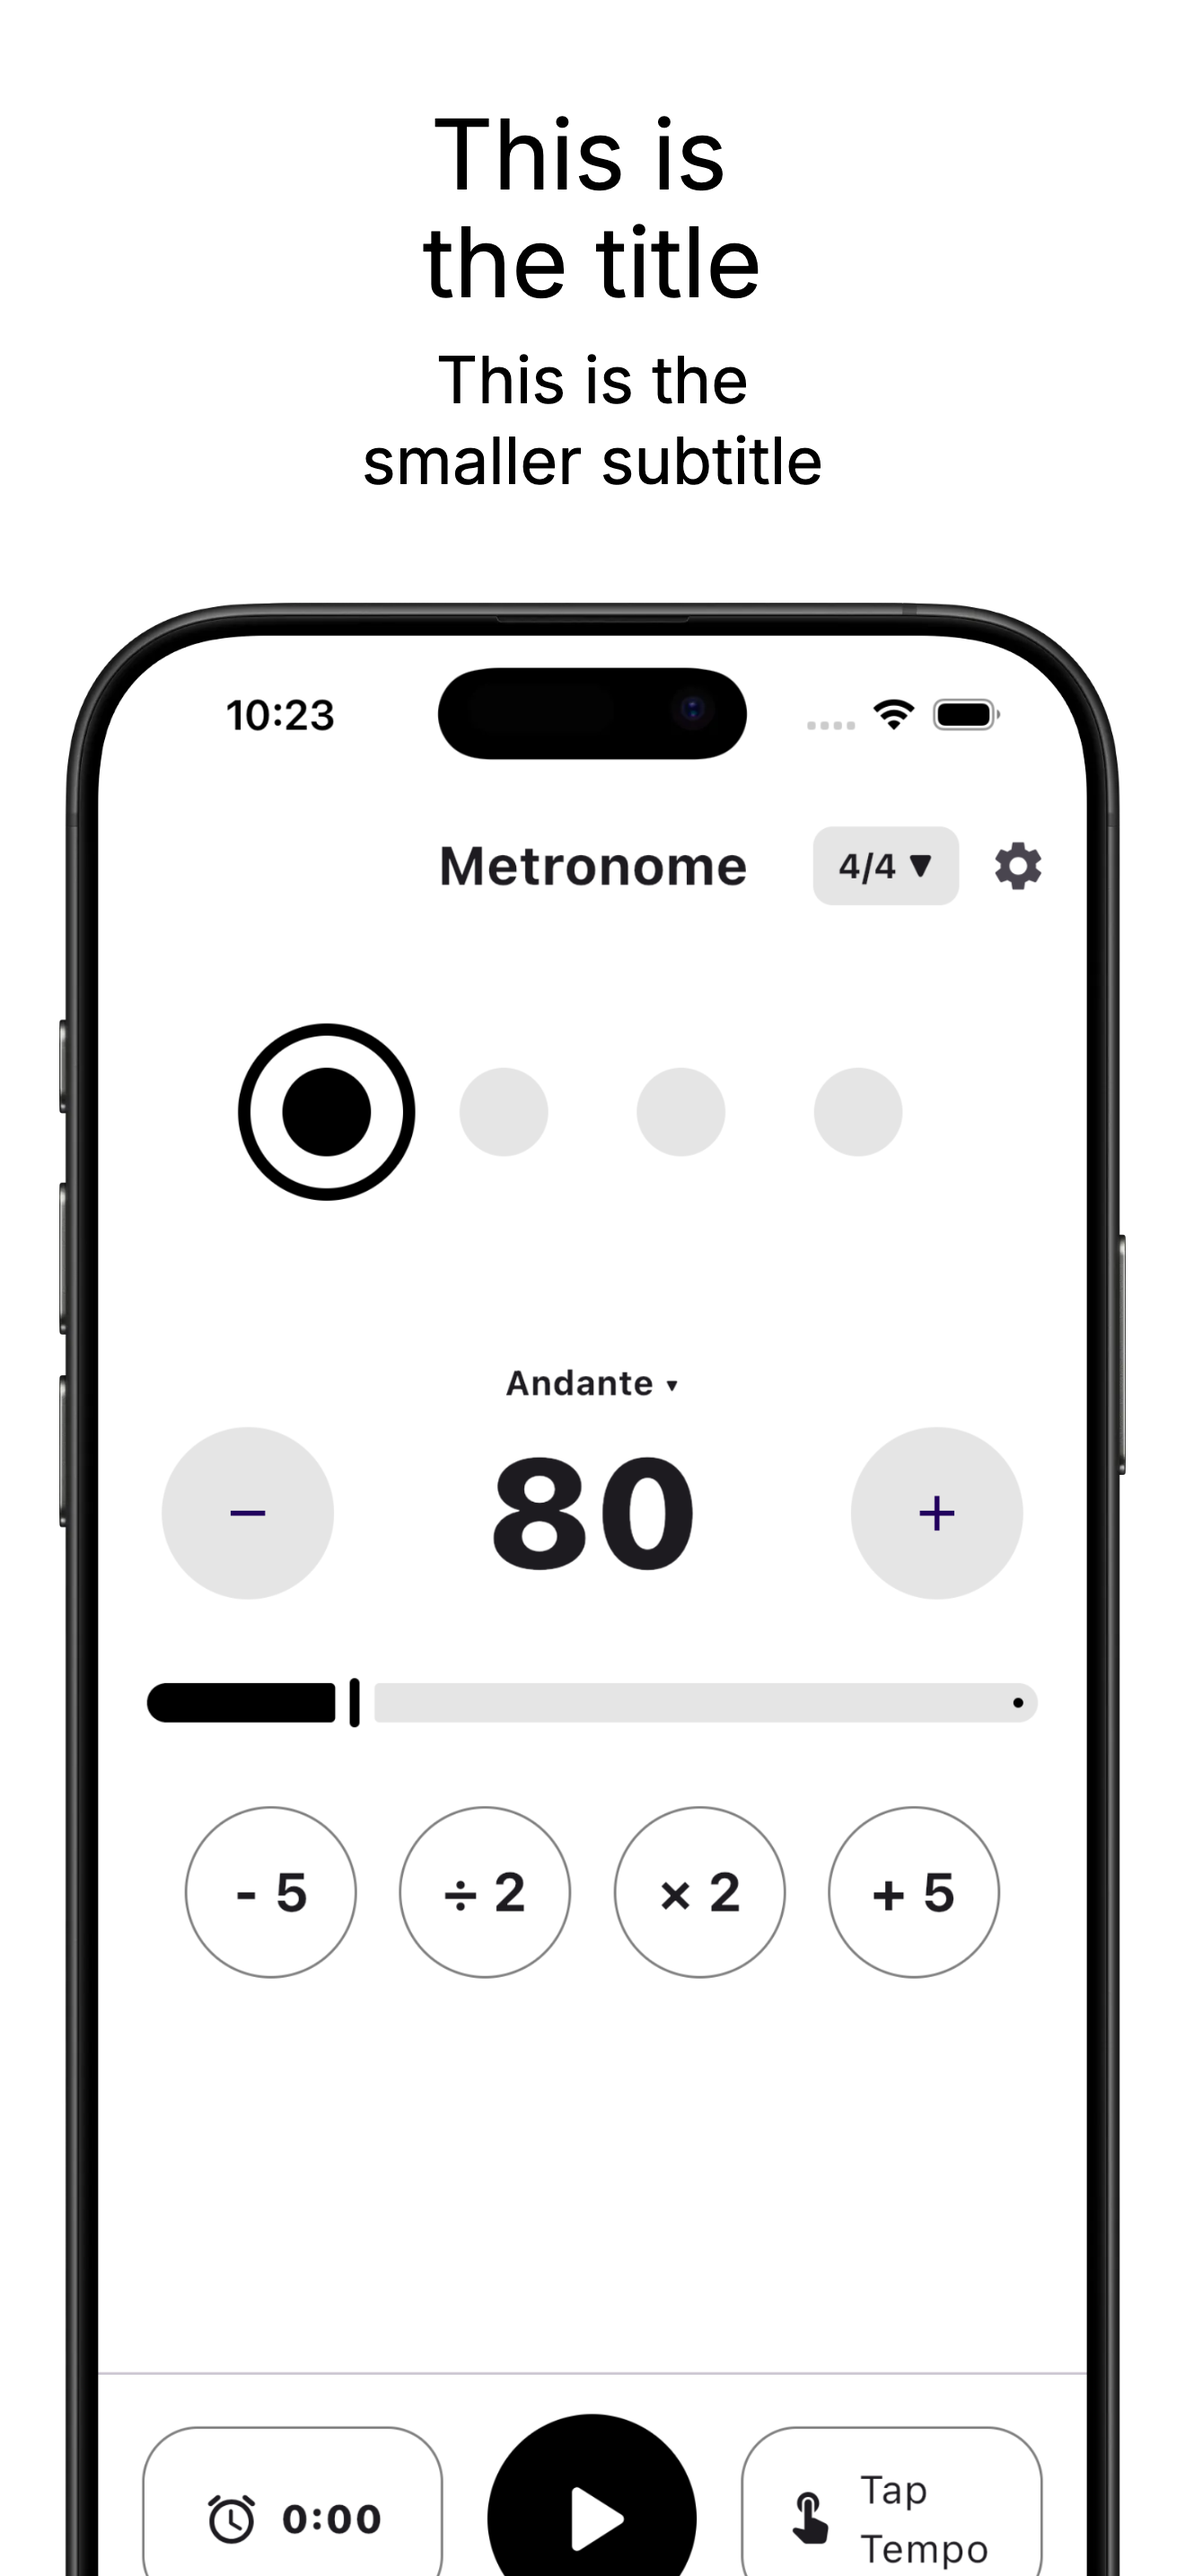
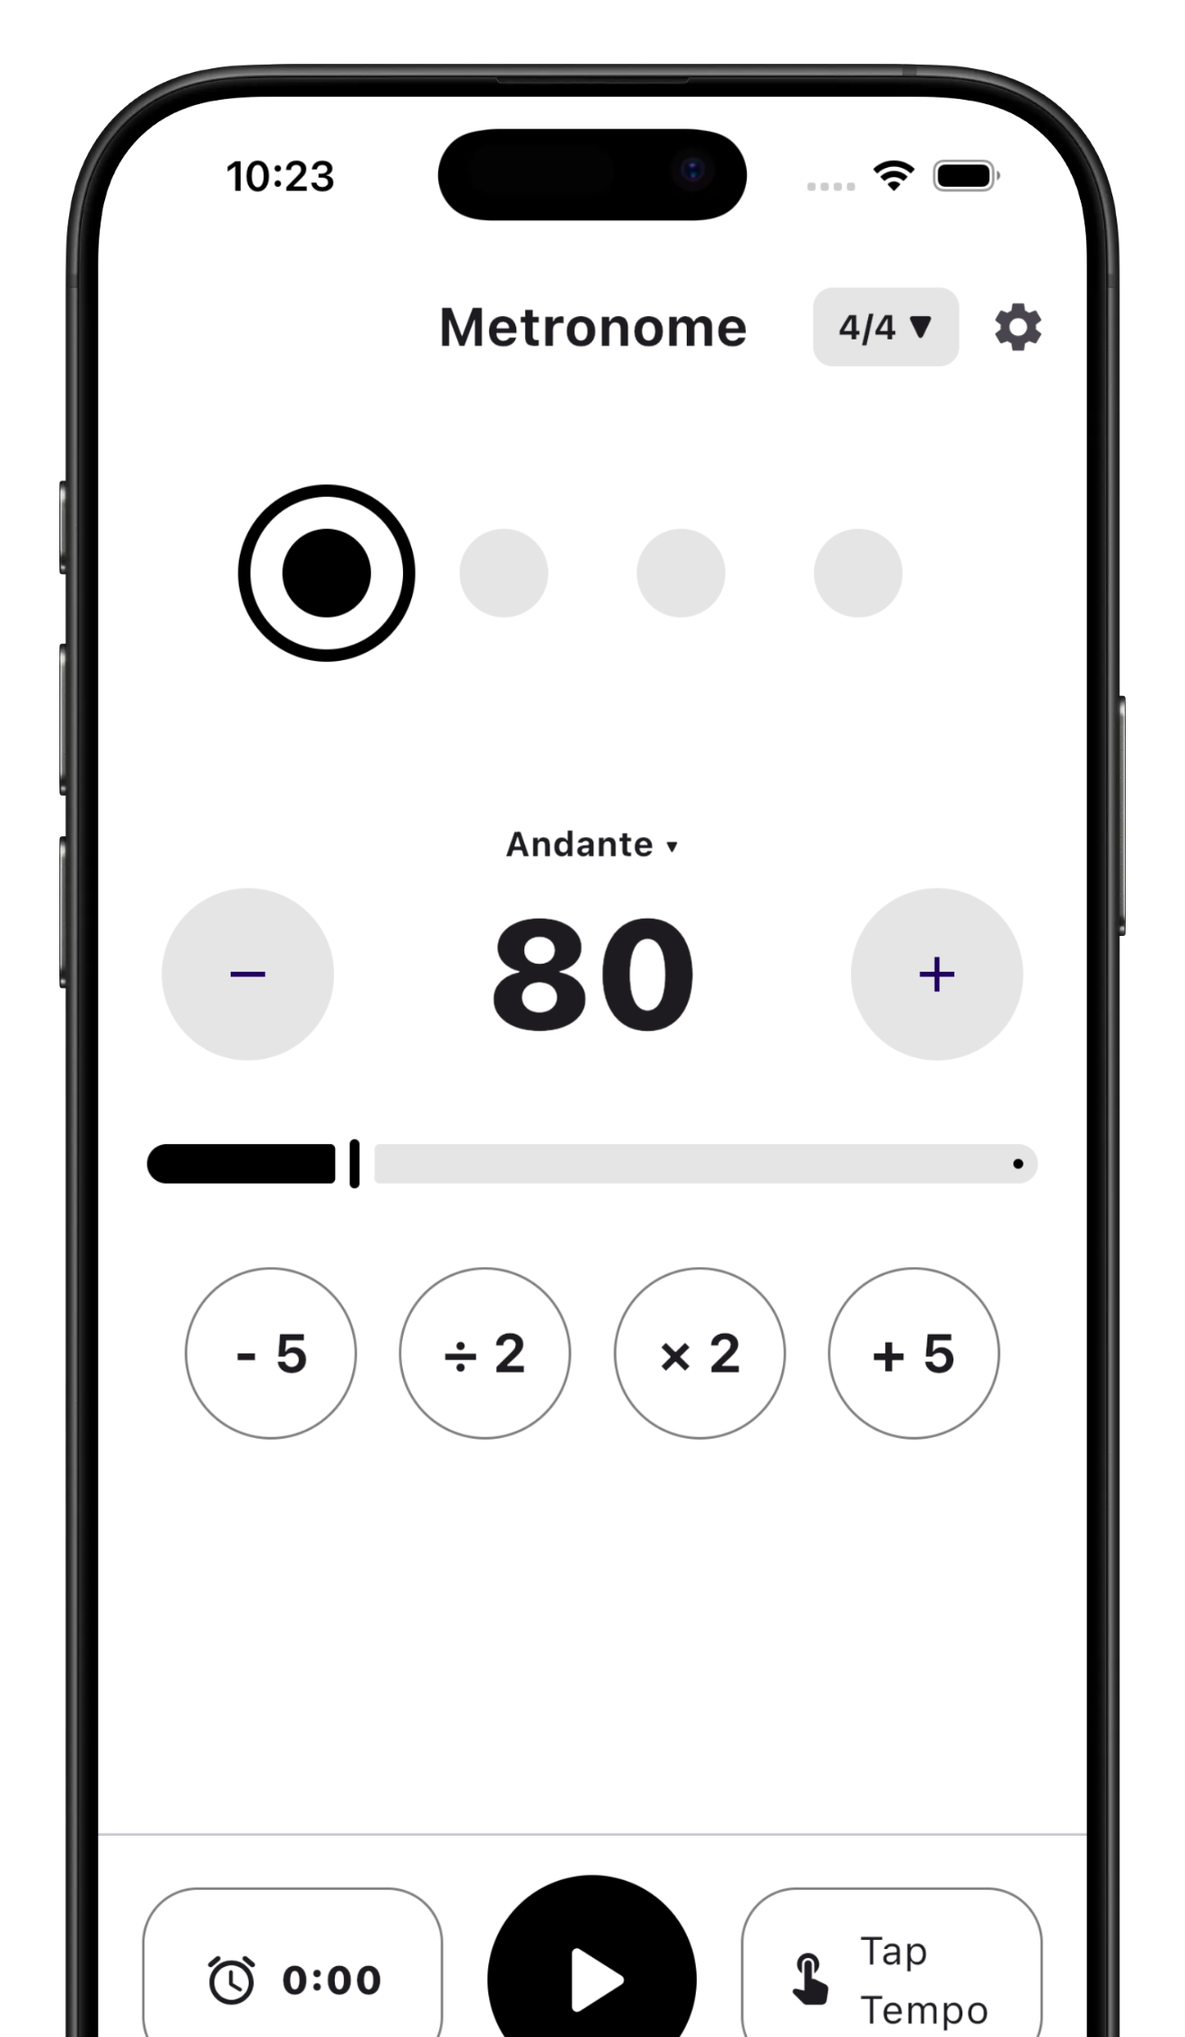
docs(site): correct the landing page and prepare it for merkost.dev
The live page linked App Store id6480380648; the app is id6761737690,
the ID the in-app rate action uses. The iOS download button has been
going to the wrong place.

Two of the three carousel screenshots were never finished: one was an
empty transparency checkerboard and both carried "This is the title /
This is the smaller subtitle" placeholder copy, live and public. Drop the
empty one and crop the placeholder band off the real screenshot.

The privacy policy claimed the app "works entirely offline" immediately
above a Firebase disclosure, and scoped that disclosure to Android.
Crashlytics is linked into the iOS app through the firebase-ios-sdk
package and CrashlyticsTree lives in commonMain, so it runs on both
platforms. Correct the scope per service and drop the contradiction.

Also: 1.3.0 feature list, ASO-approved title and H1, canonical URL,
Open Graph and Twitter cards, a 1200x630 social card, SoftwareApplication
structured data, a FAQ covering gap and gradual tempo training,
descriptive alt text, and a CNAME for metronome.merkost.dev.

Claude-Session: https://claude.ai/code/session_01SVidaaKXA3tkdeXYnArktn

diff --git a/docs/index.html b/docs/index.html
@@ -3,7 +3,43 @@
 <head>
     <meta charset="UTF-8">
     <meta name="viewport" content="width=device-width, initial-scale=1.0">
-    <title>Metronome: Feel the Beat!</title>
+    <title>Free Offline Metronome &amp; Practice Tools | Merkost</title>
+    <meta name="description" content="Practice with precise BPM control, practice presets and sets, tempo and gap trainers, subdivisions and timers. Free, ad-free metronome for iPhone and Android.">
+    <link rel="canonical" href="https://metronome.merkost.dev/">
+    <meta name="theme-color" content="#0a0a0a">
+
+    <meta property="og:type" content="website">
+    <meta property="og:site_name" content="Metronome: BPM &amp; Practice">
+    <meta property="og:title" content="Metronome: BPM &amp; Practice — precise timing, better practice">
+    <meta property="og:description" content="A precise, ad-free metronome with practice presets, practice sets, tempo and gap trainers. Free on iPhone and Android.">
+    <meta property="og:url" content="https://metronome.merkost.dev/">
+    <meta property="og:image" content="https://metronome.merkost.dev/screenshots/og-card.png">
+    <meta property="og:image:width" content="1200">
+    <meta property="og:image:height" content="630">
+
+    <meta name="twitter:card" content="summary_large_image">
+    <meta name="twitter:title" content="Metronome: BPM &amp; Practice — precise timing, better practice">
+    <meta name="twitter:description" content="A precise, ad-free metronome with practice presets, practice sets, tempo and gap trainers. Free on iPhone and Android.">
+    <meta name="twitter:image" content="https://metronome.merkost.dev/screenshots/og-card.png">
+
+    <script type="application/ld+json">
+    {
+      "@context": "https://schema.org",
+      "@type": "SoftwareApplication",
+      "name": "Metronome: BPM & Practice",
+      "operatingSystem": "iOS, Android",
+      "applicationCategory": "MusicApplication",
+      "softwareVersion": "1.3.0",
+      "description": "A precise, ad-free metronome with practice presets, practice sets, tempo and gap trainers, subdivisions and timers. Core practice features work offline.",
+      "url": "https://metronome.merkost.dev/",
+      "author": { "@type": "Person", "name": "Merkost", "url": "https://merkost.dev" },
+      "offers": { "@type": "Offer", "price": "0", "priceCurrency": "USD" },
+      "downloadUrl": [
+        "https://apps.apple.com/app/id6761737690",
+        "https://play.google.com/store/apps/details?id=com.merkost.metronome"
+      ]
+    }
+    </script>
     <style>
         * { margin: 0; padding: 0; box-sizing: border-box; }
         body {
@@ -93,6 +129,22 @@
         .carousel-btn.next { right: 8px; }
         .badges { display: flex; gap: 16px; flex-wrap: wrap; margin-bottom: 48px; }
         .badges a img { height: 52px; border-radius: 8px; }
+        .faq { margin-bottom: 48px; }
+        .faq h2 { font-size: 1.4rem; font-weight: 700; margin-bottom: 20px; }
+        .faq details {
+            border-bottom: 1px solid #1a1a1a;
+            padding: 14px 0;
+        }
+        .faq summary {
+            cursor: pointer;
+            font-size: 1.02rem;
+            font-weight: 600;
+            list-style: none;
+        }
+        .faq summary::-webkit-details-marker { display: none; }
+        .faq summary::after { content: '+'; float: right; color: #999; }
+        .faq details[open] summary::after { content: '\2212'; }
+        .faq details p { margin-top: 10px; color: #999; font-size: 0.95rem; }
         .links { margin-top: 32px; }
         .links a {
             color: #999;
@@ -112,52 +164,44 @@
 </head>
 <body>
     <div class="container">
-        <h1>Metronome: Feel the Beat!</h1>
-        <p class="subtitle">A simple, precise metronome for musicians of all levels.</p>
+        <h1>A precise metronome built for better practice</h1>
+        <p class="subtitle">Precise timing. Better practice. Free, ad-free, and no account required.</p>
 
         <ul class="features">
-            <li><span>&#9834;</span> Precise audio engine with low-latency playback</li>
-            <li><span>&#9996;</span> Tap tempo for quick BPM detection</li>
-            <li><span>&#8593;</span> Gradual tempo increase for practice sessions</li>
-            <li><span>&#9835;</span> Multiple time signatures</li>
-            <li><span>&#127925;</span> Selectable click sounds</li>
-            <li><span>&#9711;</span> Visual beat indicator with animated ball</li>
-            <li><span>&#9201;</span> Timer mode for timed practice</li>
-            <li><span>&#127912;</span> Light and dark themes with multiple color schemes</li>
-            <li><span>&#128243;</span> Haptic feedback on every beat</li>
-            <li><span>&#9654;</span> Keeps playing with screen off</li>
+            <li><span>&#9834;</span> Drift-resistant beat scheduling anchored to a monotonic clock</li>
+            <li><span>&#9996;</span> Tap tempo, quick BPM controls, common and odd time signatures</li>
+            <li><span>&#9835;</span> Per-beat accents and mute, plus eighth, triplet and sixteenth subdivisions</li>
+            <li><span>&#128278;</span> Practice Presets save tempo, meter, subdivision, accents and count-in</li>
+            <li><span>&#128220;</span> Practice Sets run your presets in order, with optional time or bar goals</li>
+            <li><span>&#8593;</span> Tempo Trainer raises or lowers BPM over complete bars</li>
+            <li><span>&#128263;</span> Gap Trainer alternates audible and silent bars to train your inner clock</li>
+            <li><span>&#9201;</span> Countdown timer, stopwatch, one-bar count-in and practice streaks</li>
+            <li><span>&#9654;</span> Background playback, Live Activities on iPhone, keep-screen-awake</li>
+            <li><span>&#127912;</span> Light and dark themes with multiple colour schemes</li>
         </ul>
 
         <div class="carousel">
-            <button class="carousel-btn prev" onclick="moveSlide(-1)">&#8249;</button>
-            <button class="carousel-btn next" onclick="moveSlide(1)">&#8250;</button>
+            <button class="carousel-btn prev" aria-label="Previous screenshot" onclick="moveSlide(-1)">&#8249;</button>
+            <button class="carousel-btn next" aria-label="Next screenshot" onclick="moveSlide(1)">&#8250;</button>
             <div class="carousel-track" id="carouselTrack">
                 <div class="carousel-slide">
-                    <img src="screenshots/screen1.png" alt="Main metronome screen">
+                    <img src="screenshots/screen1.png" alt="The main metronome screen showing 4/4 time, 80 BPM marked Andante, the beat dots, tempo slider and the play, timer and tap-tempo controls." loading="lazy">
                     <div class="caption">
-                        <h3>Perfect Tempo</h3>
-                        <p>Precise BPM control</p>
+                        <h3>Precise timing</h3>
+                        <p>Set the BPM, tap a tempo, shape every beat</p>
                     </div>
                 </div>
                 <div class="carousel-slide">
-                    <img src="screenshots/screen2.png" alt="Settings screen">
+                    <img src="screenshots/screen3.png" alt="The metronome playing in a purple colour scheme, with the colour flash filling the screen on the beat and the timer counting up." loading="lazy">
                     <div class="caption">
-                        <h3>Make It Yours</h3>
-                        <p>Themes, sounds &amp; more</p>
-                    </div>
-                </div>
-                <div class="carousel-slide">
-                    <img src="screenshots/screen3.png" alt="Color flash with pink theme">
-                    <div class="caption">
-                        <h3>Feel the Beat</h3>
-                        <p>Visual pulse on every click</p>
+                        <h3>See the pulse</h3>
+                        <p>Visual beat, colour flash and your choice of theme</p>
                     </div>
                 </div>
             </div>
             <div class="carousel-nav">
-                <button class="carousel-dot active" onclick="goToSlide(0)"></button>
-                <button class="carousel-dot" onclick="goToSlide(1)"></button>
-                <button class="carousel-dot" onclick="goToSlide(2)"></button>
+                <button class="carousel-dot active" onclick="goToSlide(0)" aria-label="Show slide 1"></button>
+                <button class="carousel-dot" onclick="goToSlide(1)" aria-label="Show slide 2"></button>
             </div>
         </div>
 
@@ -165,23 +209,49 @@
             <a href="https://play.google.com/store/apps/details?id=com.merkost.metronome">
                 <img src="https://play.google.com/intl/en_us/badges/static/images/badges/en_badge_web_generic.png" alt="Get it on Google Play" height="52">
             </a>
-            <a href="https://apps.apple.com/app/id6480380648">
+            <a href="https://apps.apple.com/app/id6761737690">
                 <img src="https://developer.apple.com/assets/elements/badges/download-on-the-app-store.svg" alt="Download on the App Store" height="52">
             </a>
         </div>
 
+
+        <section class="faq">
+            <h2>Questions</h2>
+            <details>
+                <summary>What is a gap trainer?</summary>
+                <p>The gap trainer plays a set number of bars, then goes silent for a set number of bars while the beat keeps counting. You keep time yourself through the silence and find out whether you are still with the click when it returns. It is the most direct way to train your internal pulse.</p>
+            </details>
+            <details>
+                <summary>How does gradual tempo practice work?</summary>
+                <p>Set a starting tempo, a target tempo, a step size and how many complete bars to hold before each step. The Tempo Trainer then moves the BPM for you while you play, so you can take a difficult passage from slow to performance tempo without stopping to change the number.</p>
+            </details>
+            <details>
+                <summary>What is the difference between a preset and a practice set?</summary>
+                <p>A Practice Preset is one saved setup — tempo, time signature, subdivision, per-beat accents and mutes, and count-in. A Practice Set is an ordered sequence of those presets, where any step can carry a time or bar goal. Presets are what you play; sets are how you work through a session.</p>
+            </details>
+            <details>
+                <summary>Does it work offline?</summary>
+                <p>Yes. The core practice features work without a network connection, and there is no account to create. Settings and practice activity are stored on your device.</p>
+            </details>
+            <details>
+                <summary>Does it keep playing in the background?</summary>
+                <p>Yes. Playback continues with the screen off or another app in front. On supported iPhones the current tempo and practice timer also appear on the Lock Screen and in the Dynamic Island.</p>
+            </details>
+        </section>
+
         <div class="links">
             <a href="support.html">Support</a>
             <a href="privacy.html">Privacy Policy</a>
+            <a href="https://merkost.dev">More from Merkost</a>
         </div>
 
         <footer>
-            &copy; 2024 Merkost. All rights reserved.
+            &copy; 2026 Merkost. All rights reserved.
         </footer>
     </div>
     <script>
         let current = 0;
-        const total = 3;
+        const total = 2;
         function moveSlide(dir) { goToSlide((current + dir + total) % total); }
         function goToSlide(i) {
             current = i;

diff --git a/docs/privacy.html b/docs/privacy.html
@@ -3,7 +3,7 @@
 <head>
     <meta charset="UTF-8">
     <meta name="viewport" content="width=device-width, initial-scale=1.0">
-    <title>Privacy Policy - Metronome: Feel the Beat!</title>
+    <title>Privacy Policy | Metronome: BPM &amp; Practice</title>
     <style>
         * { margin: 0; padding: 0; box-sizing: border-box; }
         body {
@@ -35,17 +35,17 @@
     <div class="container">
         <a href="index.html" class="back">&larr; Back</a>
         <h1>Privacy Policy</h1>
-        <p class="subtitle">Last updated: April 7, 2026</p>
+        <p class="subtitle">Last updated: September 3, 2026</p>
 
         <h2>Overview</h2>
-        <p>Metronome: Feel the Beat! is designed with your privacy in mind. The app works entirely offline and does not require an account or personal information to use.</p>
+        <p>Metronome is designed with your privacy in mind. Its practice features work offline, and it does not require an account or personal information to use. The app does send anonymous diagnostic data, described below.</p>
 
         <h2>Data We Collect</h2>
-        <p>The app uses the following third-party services on Android:</p>
+        <p>The app uses the following third-party services:</p>
         <ul>
-            <li><strong>Firebase Crashlytics</strong> — collects anonymous crash reports to help us fix bugs. This includes device type, OS version, and stack traces. No personal data is included.</li>
-            <li><strong>Firebase Analytics</strong> — collects anonymous usage data such as session duration and screen views. This helps us understand how the app is used and improve it.</li>
-            <li><strong>Firebase Performance Monitoring</strong> — collects anonymous performance metrics to help us optimize the app.</li>
+            <li><strong>Firebase Crashlytics</strong> (iPhone, iPad and Android) — collects anonymous crash reports to help us fix bugs. This includes device type, OS version, and stack traces. No personal data is included.</li>
+            <li><strong>Firebase Analytics</strong> (Android only) — collects anonymous usage data such as session duration and screen views. This helps us understand how the app is used and improve it.</li>
+            <li><strong>Firebase Performance Monitoring</strong> (Android only) — collects anonymous performance metrics to help us optimize the app.</li>
         </ul>
 
         <h2>Data Stored on Your Device</h2>
@@ -70,7 +70,7 @@
         <p>If you have questions about this privacy policy, contact us at <a href="mailto:merkostdev+metronome@gmail.com">merkostdev+metronome@gmail.com</a>.</p>
 
         <footer>
-            &copy; 2024 Merkost. All rights reserved.
+            &copy; 2026 Merkost. All rights reserved.
         </footer>
     </div>
 </body>

diff --git a/docs/support.html b/docs/support.html
@@ -3,7 +3,7 @@
 <head>
     <meta charset="UTF-8">
     <meta name="viewport" content="width=device-width, initial-scale=1.0">
-    <title>Support - Metronome: Feel the Beat!</title>
+    <title>Support | Metronome: BPM &amp; Practice</title>
     <style>
         * { margin: 0; padding: 0; box-sizing: border-box; }
         body {
@@ -67,7 +67,7 @@
         <p>Yes. Go to Settings and choose between Wood, Click, or Classic sounds.</p>
 
         <footer>
-            &copy; 2024 Merkost. All rights reserved.
+            &copy; 2026 Merkost. All rights reserved.
         </footer>
     </div>
 </body>
